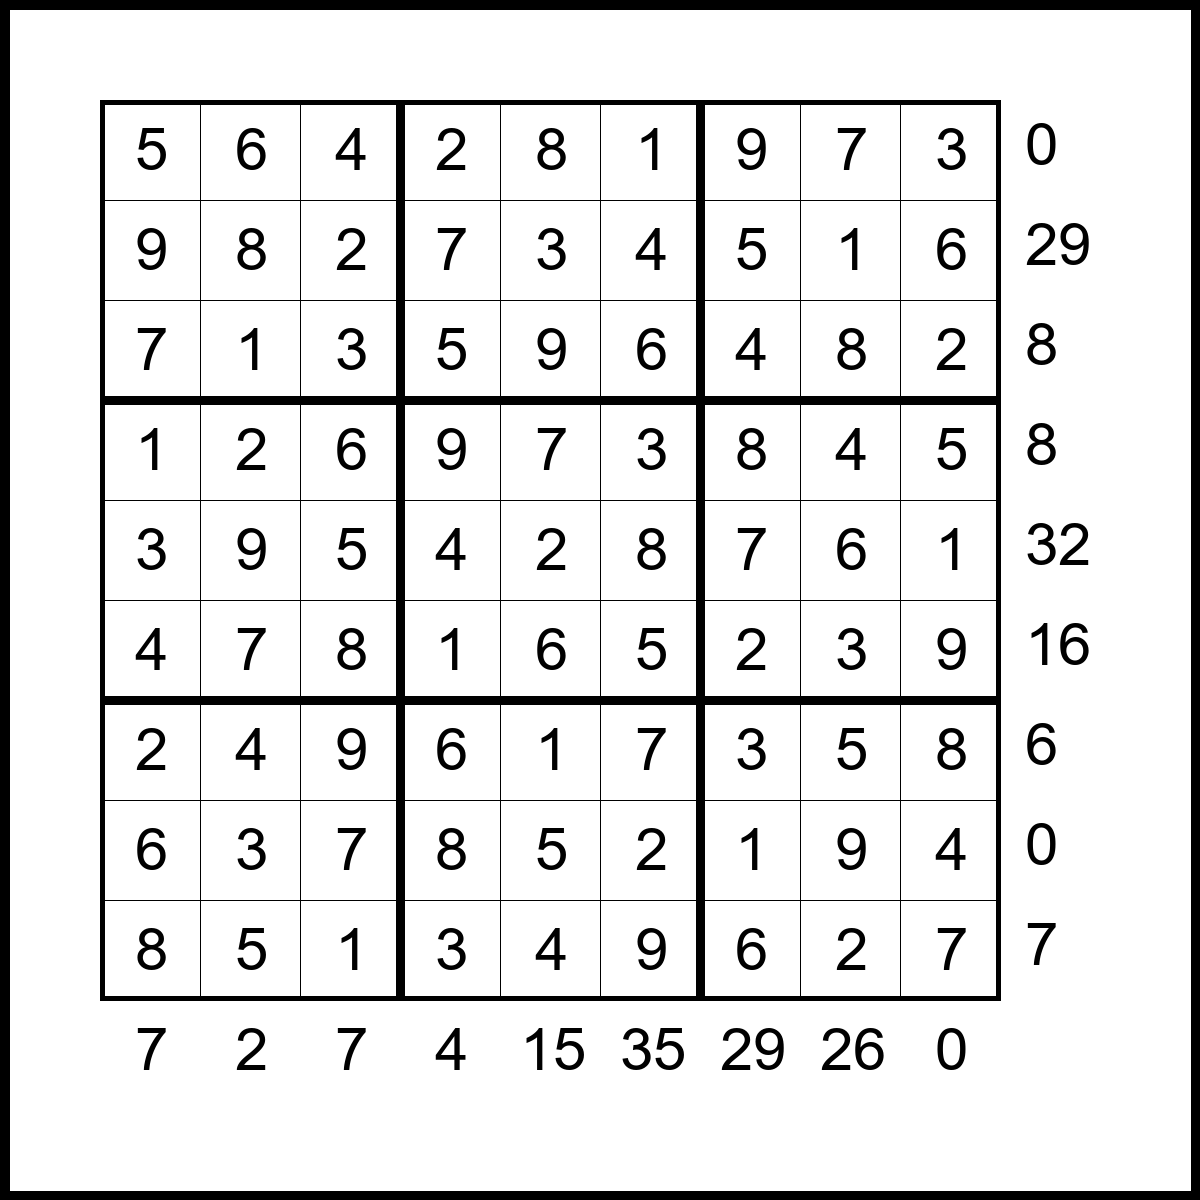
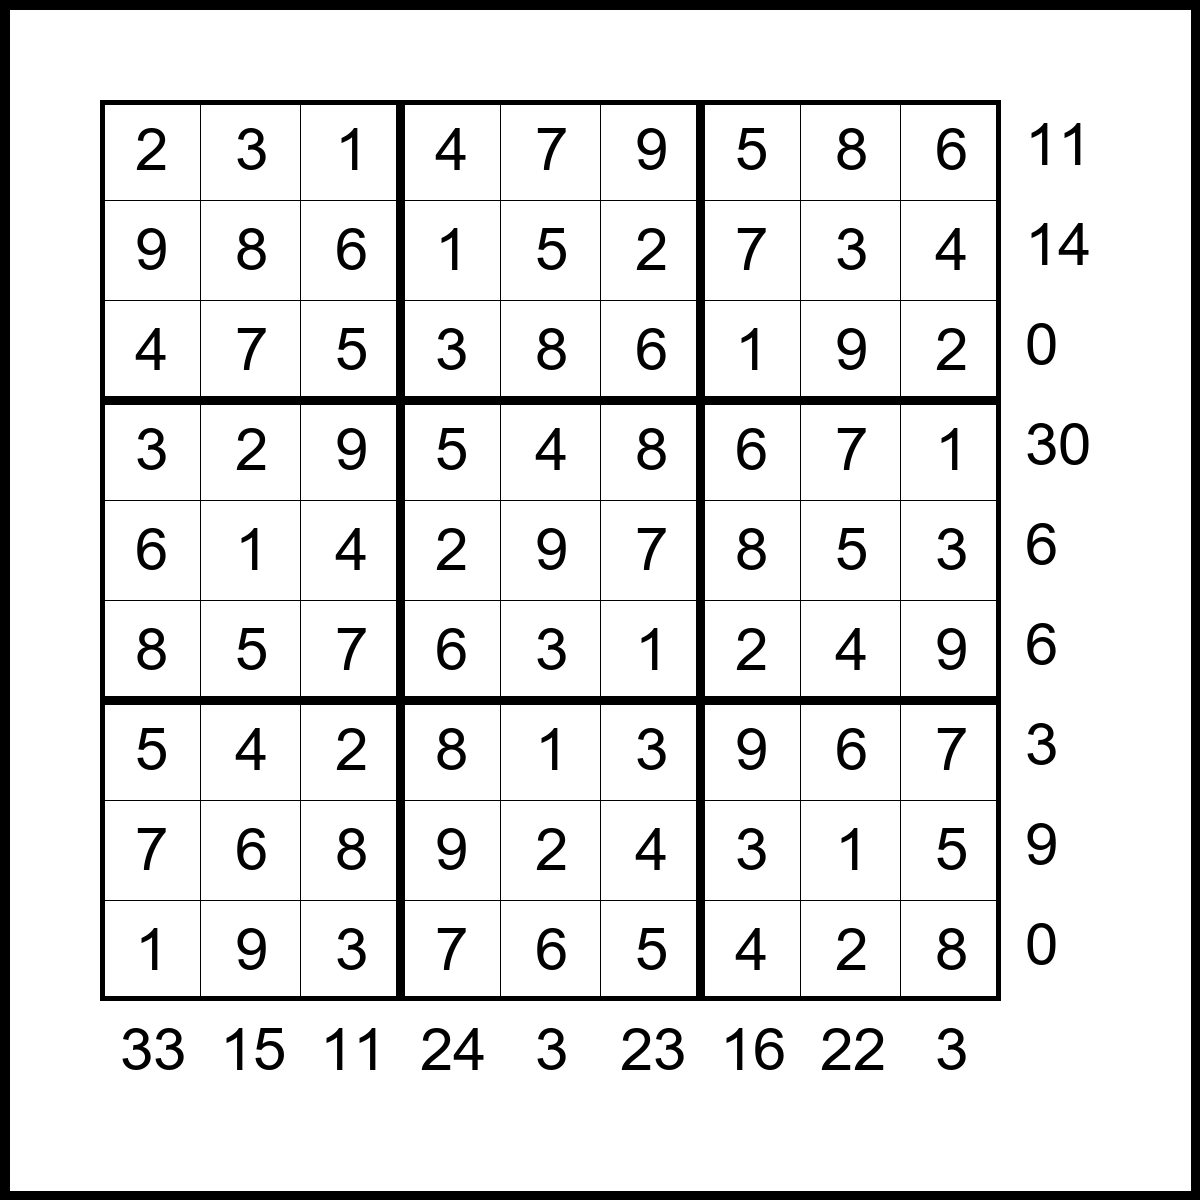
Add files via upload

diff --git a/main.py b/main.py
@@ -83,6 +83,14 @@ p_draw = ImageDraw.Draw(puz)
 s_draw.rectangle([(0, 0), (1200, 1200)], outline='black', width=10)
 fnt = ImageFont.truetype('arial.ttf', 60)
 
+
+# generate starting squares
+xy = []
+while len(xy) < 10:
+    t = (random.randrange(9), random.randrange(9))
+    if t not in xy:
+        xy.append(t)
+
 # draw 9 x 9 grid with numbers
 
 for i in range(1,10):
@@ -91,12 +99,17 @@ for i in range(1,10):
         p_draw.rectangle([(i*100, j*100), ((i+1)*100, (j+1)*100)], outline='black')
         s_draw.text((i*100+35, j*100+15), '{}'.format(grid[i-1][j-1]), font=fnt, fill=(0,0,0,255))
 
+        if (i-1, j-1) in xy:
+            p_draw.text((i*100+35, j*100+15), '{}'.format(grid[i-1][j-1]), font=fnt, fill=(0,0,0,255))
+    
+
 
 # draw 3 x 3 thick grid
 for i in range(3):
     for j in range(3):
         s_draw.rectangle([(i*300+100, j*300+100), ((i+1)*300+100, (j+1)*300+100)], outline='black', width=5)
         p_draw.rectangle([(i*300+100, j*300+100), ((i+1)*300+100, (j+1)*300+100)], outline='black', width=5)
+
 
 # draw row + column sums
 for i in range(9):
@@ -108,6 +121,13 @@ for i in range(9):
     else:
         s_draw.text((i*100+120, 1015), '{}'.format(row_sums[i]), font=fnt, fill=(0,0,0,255))
         p_draw.text((i*100+120, 1015), '{}'.format(row_sums[i]), font=fnt, fill=(0,0,0,255))
+
+
+
+
+
+
 sol.save('solution.png', 'PNG')
-sol.show()
+puz.show()
+puz.save('puzzle.png', 'PNG')
 
